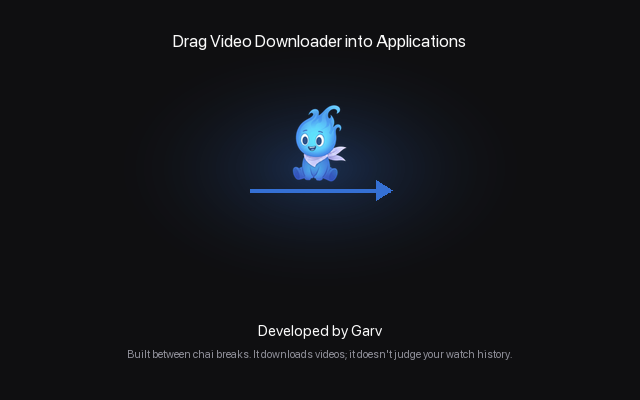
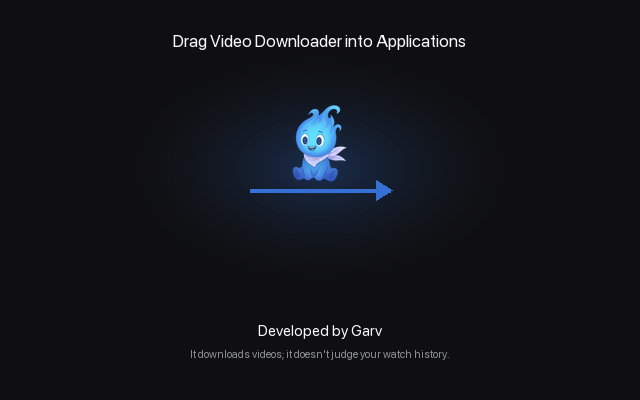
1.7.0: folder picker and ask-every-time; fix install.ps1 hang

Changed region(s): [[0.1875, 0.87, 0.8125, 0.9]]

diff --git a/web/app.js b/web/app.js
@@ -474,6 +474,22 @@ $("#picker").addEventListener("click", async e => {
   render();
 });
 
+let lastFolder = null;
+
+// "Ask every time": the system folder chooser, starting where the last
+// download went. Typed path when the UI runs in a plain browser.
+async function askFolder() {
+  const start = lastFolder || sys.settings.download_dir;
+  let path;
+  if (sys.native_picker) {
+    try { path = (await api("/api/pick-folder", { start })).path; } catch (ex) { toast(ex.message); return null; }
+  } else {
+    path = prompt("Save to folder:", start);
+  }
+  if (path) lastFolder = path;
+  return path || null;
+}
+
 async function startJob(btn) {
   const body = { url: info.source_url, item: info.item, kind: sel.kind };
   if (sel.kind === "video") {
@@ -485,6 +501,11 @@ async function startJob(btn) {
     body.audio_id = sel.aid;
     body.audio_out = sel.aout;
     if (sel.aout === "mp3") body.mp3_kbps = sel.mp3;
+  }
+  if (sys?.settings.ask_folder) {
+    const folder = await askFolder();
+    if (!folder) return;  // cancelled: nothing queued
+    body.folder = folder;
   }
   btn.disabled = true;
   try {
@@ -662,7 +683,13 @@ function renderSettings() {
   $("#settings").innerHTML = `
   <div class="card">
     <h3>Download folder</h3>
-        <form class="field" id="dirForm"><input id="dir" value="${esc(s.download_dir)}" spellcheck="false"><button class="btn sec">Save</button></form>
+        <form class="field" id="dirForm"><input id="dir" value="${esc(s.download_dir)}" spellcheck="false">
+      ${sys.native_picker ? `<button type="button" class="btn sec" data-choose>${icon("folder")}Choose…</button>` : ""}<button class="btn sec">Save</button></form>
+    <div class="seg" style="margin-top:12px">
+      <button data-askfolder="0" class="${s.ask_folder ? "" : "on"}">Always save here</button>
+      <button data-askfolder="1" class="${s.ask_folder ? "on" : ""}">Ask every time</button>
+    </div>
+    <p class="muted small" style="margin:8px 0 0">${s.ask_folder ? "Each download asks where to save, starting from this folder." : "Every download goes straight to this folder."}</p>
   </div>
   <div class="card" id="acctCard"></div>
   <div class="card">
@@ -680,11 +707,27 @@ function renderSettings() {
   <div class="card" id="updCard"></div>
   <div class="card about">
     <img src="mascot-still.png" alt="" width="44" height="65">
-    <div><h3>Video Downloader ${esc(sys.version || "")}</h3><p>Developed by Garv. Built between chai breaks.</p></div>
+    <div><h3>Video Downloader ${esc(sys.version || "")}</h3><p>Developed by Garv.</p></div>
   </div>`;
   if (upd) renderUpdate();
   renderAccount();
 }
+
+$("#settings").addEventListener("click", async e => {
+  const choose = e.target.closest("[data-choose]"), ask = e.target.closest("[data-askfolder]");
+  try {
+    if (choose) {
+      const r = await api("/api/pick-folder", { start: $("#dir").value });
+      if (!r.path) return;
+      sys.settings = await api("/api/settings", { download_dir: r.path });
+      toast("Saved");
+      renderSettings();
+    } else if (ask) {
+      sys.settings = await api("/api/settings", { ask_folder: ask.dataset.askfolder === "1" });
+      renderSettings();
+    }
+  } catch (ex) { toast(ex.message); }
+});
 
 $("#settings").addEventListener("submit", async e => {
   if (e.target.id !== "dirForm") return;
@@ -732,7 +775,10 @@ async function loadUpdate() {
   try { upd = await api("/api/app-update"); } catch { return; }
   renderUpdate();
   clearTimeout(updTimer);
-  updTimer = setTimeout(loadUpdate, ["downloading", "restarting"].includes(upd.status) ? 500 : 60000);
+  // Fast while an update is on its way (the launch check lands seconds after
+  // the window opens); once a minute when there's nothing to do.
+  const wait = { downloading: 500, restarting: 500, idle: 3000, available: 3000, ready: 5000 }[upd.status] ?? 60000;
+  updTimer = setTimeout(loadUpdate, wait);
 }
 
 // A verified update installs itself once nothing is downloading: a short

diff --git a/ytd/jobs.py b/ytd/jobs.py
@@ -150,6 +150,7 @@ class Job:
         self.cancel = threading.Event()
         self.proc = None
         self.work = None
+        self.dest = _dest_folder(req.get("folder"))
         self.created = time.time()
         self.finished = None
         self.label, self.expect, self.total_bytes = _describe(req, summary)
@@ -165,6 +166,19 @@ class Job:
             "error": self.error, "verify": self.verify,
             "created": self.created, "finished": self.finished,
         }
+
+
+def _dest_folder(chosen):
+    """Where this job's file goes: the folder picked for it ("ask every
+    time"), else the default from Settings."""
+    d = Path(os.path.expanduser(str(chosen).strip())) if chosen else Path(settings.load()["download_dir"])
+    if not d.is_absolute():
+        raise InputError("Pick a full folder path.")
+    try:
+        d.mkdir(parents=True, exist_ok=True)
+    except OSError:
+        raise InputError(f"Can't write to {d}.") from None
+    return d
 
 
 def _find(rows, fid, kind):
@@ -340,16 +354,16 @@ def _work_dir(job):
     # Each job downloads into its own folder and only the finished file is
     # moved out. Two jobs on the same video (say M4A and WAV of one stream)
     # would otherwise share an intermediate file and delete each other's.
-    d = Path(settings.load()["download_dir"]) / ".ytd-tmp" / job.id
+    d = job.dest / ".ytd-tmp" / job.id
     d.mkdir(parents=True, exist_ok=True)
     job.work = d
     return d
 
 
-def _deliver(src, name):
+def _deliver(job, src, name):
     """Move a finished file into the download folder without overwriting:
     'x.mp4' becomes 'x (2).mp4' if needed."""
-    out = Path(settings.load()["download_dir"])
+    out = job.dest
     stem, ext = os.path.splitext(name)
     dest, n = out / name, 2
     while dest.exists():
@@ -386,6 +400,10 @@ def _run(job):
     finally:
         if job.work:
             shutil.rmtree(job.work, ignore_errors=True)
+            try:
+                job.work.parent.rmdir()  # the shared .ytd-tmp, once no job is using it
+            except OSError:
+                pass
 
 
 def _download(job):
@@ -453,7 +471,7 @@ def _download(job):
     path = (info.get("requested_downloads") or [{}])[0].get("filepath")
     if not path or not os.path.exists(path):
         raise RuntimeError("Download finished but the output file is missing.")
-    job.file = path if req.get("editor") else _deliver(path, os.path.basename(path))
+    job.file = path if req.get("editor") else _deliver(job, path, os.path.basename(path))
 
 
 _STD_RATES = (23.976, 24, 25, 29.97, 30, 48, 50, 59.94, 60)
@@ -553,4 +571,4 @@ def _encode(job):
         tmp_out.unlink(missing_ok=True)
         forget_encoders()
         raise RuntimeError(f"Encode failed: {err.strip().splitlines()[-1] if err.strip() else rc}")
-    job.file = _deliver(tmp_out, dest_name)
+    job.file = _deliver(job, tmp_out, dest_name)

diff --git a/ytd/api.py b/ytd/api.py
@@ -11,7 +11,7 @@ from fastapi import FastAPI, HTTPException, Request
 from fastapi.responses import FileResponse, JSONResponse, StreamingResponse
 from fastapi.staticfiles import StaticFiles
 
-from . import __version__, account, appupdate, jobs, settings, updater
+from . import __version__, account, appupdate, jobs, native, settings, updater
 from .formats import InputError
 from .tools import IS_MAC, IS_WIN, NO_WINDOW, encoder_label, encoders, version
 
@@ -113,6 +113,7 @@ def system():
     return {
         "version": __version__,
         "settings": settings.load(),
+        "native_picker": native.pick_folder is not None,
         "browsers": settings.BROWSERS,
         "ytdlp": current,
         "ytdlp_latest": _latest["version"],
@@ -120,6 +121,15 @@ def system():
         "ffmpeg": version("ffmpeg"), "ffprobe": version("ffprobe"), "deno": version("deno"),
         "encoders": {k: ({"name": v, "label": encoder_label(v)} if v else None) for k, v in enc.items()},
     }
+
+
+@app.post("/api/pick-folder")
+def pick_folder(body: dict):
+    """Native folder chooser. Blocks until the user picks or cancels."""
+    if not native.pick_folder:
+        raise HTTPException(400, "The folder picker works in the installed app; type the path instead.")
+    path = native.pick_folder(body.get("start") or settings.load()["download_dir"])
+    return {"path": path}
 
 
 @app.get("/api/account")

diff --git a/desktop.py b/desktop.py
@@ -88,8 +88,15 @@ def main():
     from ytd import account
     account.open_window = open_signin
 
-    webview.create_window(TITLE, url, width=1320, height=880, min_size=(760, 560),
-                          background_color="#0F0F11")
+    main_window = webview.create_window(TITLE, url, width=1320, height=880, min_size=(760, 560),
+                                        background_color="#0F0F11")
+
+    from ytd import native
+
+    def pick_folder(start):
+        picked = main_window.create_file_dialog(webview.FileDialog.FOLDER, directory=start)
+        return picked[0] if picked else None
+    native.pick_folder = pick_folder
     try:
         # WKWebView's stock user agent has no Safari version, and Google turns
         # such "embedded" browsers away at sign-in; present as Safari.

diff --git a/ytd/settings.py b/ytd/settings.py
@@ -34,6 +34,7 @@ _lock = threading.Lock()
 _DEFAULTS = {
     "download_dir": str(Path.home() / ("Movies" if sys.platform == "darwin" else "Downloads") / "Video Downloader"),
     "cookies_browser": "",
+    "ask_folder": False,  # True: pick a folder for every download
 }
 
 
@@ -57,6 +58,8 @@ def save(changes):
                 raise ValueError("Folder must be an absolute path.")
             d.mkdir(parents=True, exist_ok=True)
             data["download_dir"] = str(d)
+        if "ask_folder" in changes:
+            data["ask_folder"] = bool(changes["ask_folder"])
         if "cookies_browser" in changes:
             if changes["cookies_browser"] not in BROWSERS:
                 raise ValueError("Unsupported browser.")

diff --git a/packaging/make_art.py b/packaging/make_art.py
@@ -65,7 +65,7 @@ def dmg(scale):
     paste_mascot(img, 84 * scale, 320 * scale, y - 8 * scale)
     d.text((w / 2, 40 * scale), "Drag Video Downloader into Applications", font=font(17 * scale), fill=(250, 250, 250), anchor="mm")
     d.text((w / 2, 330 * scale), "Developed by Garv", font=font(15 * scale, True), fill=(250, 250, 250), anchor="mm")
-    d.text((w / 2, 354 * scale), "Built between chai breaks. It downloads videos; it doesn't judge your watch history.",
+    d.text((w / 2, 354 * scale), "It downloads videos; it doesn't judge your watch history.",
            font=font(11 * scale), fill=(142, 142, 152), anchor="mm")
     img.convert("RGB").save(HERE / f"dmg-background{'@2x' if scale == 2 else ''}.png")
 

diff --git a/ytd/native.py b/ytd/native.py
@@ -1,0 +1,4 @@
+"""Hooks into the desktop window, set by desktop.py. None when the UI runs in
+a plain browser (dev), where the app falls back to typed paths."""
+
+pick_folder = None  # (start_dir: str) -> str | None

diff --git a/ytd/__init__.py b/ytd/__init__.py
@@ -1,1 +1,1 @@
-__version__ = "1.6.1"
+__version__ = "1.7.0"

diff --git a/CHANGELOG.md b/CHANGELOG.md
@@ -1,5 +1,11 @@
 # Changelog
 
+## 1.7.0
+- Settings → Download folder: Choose… opens the system folder picker.
+- New option: "Ask every time" picks a folder for each download; "Always save here" keeps one folder.
+- Windows one-line installer no longer hangs after installing.
+- Updates start sooner after launch.
+
 ## 1.6.1
 - Convert-for-editing bitrates now stop at the source's quality. The top option keeps the source quality; higher numbers only made files bigger.
 - yt-dlp 2026.10.21 bundled.
